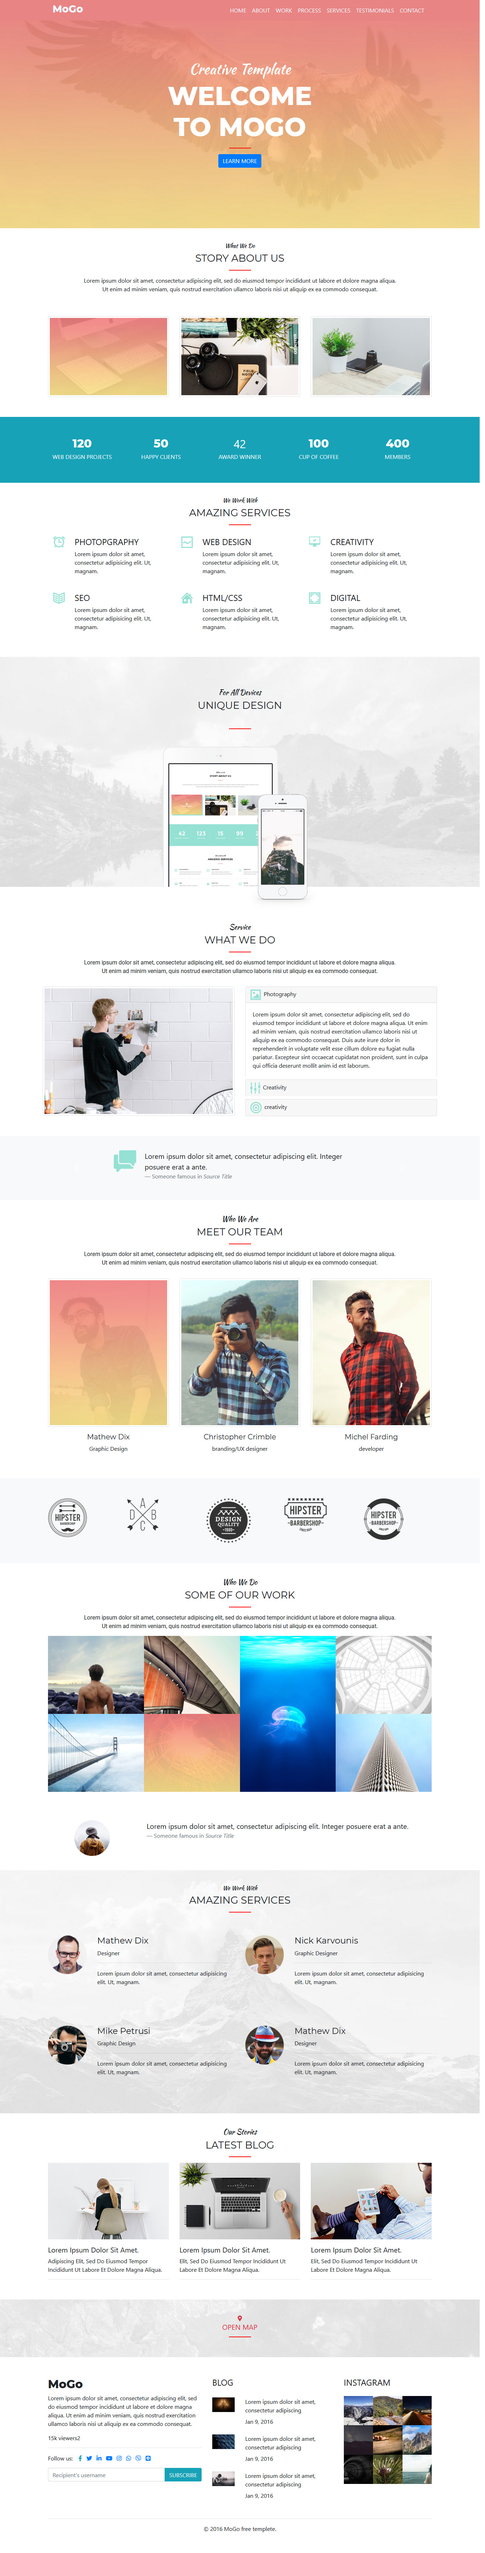
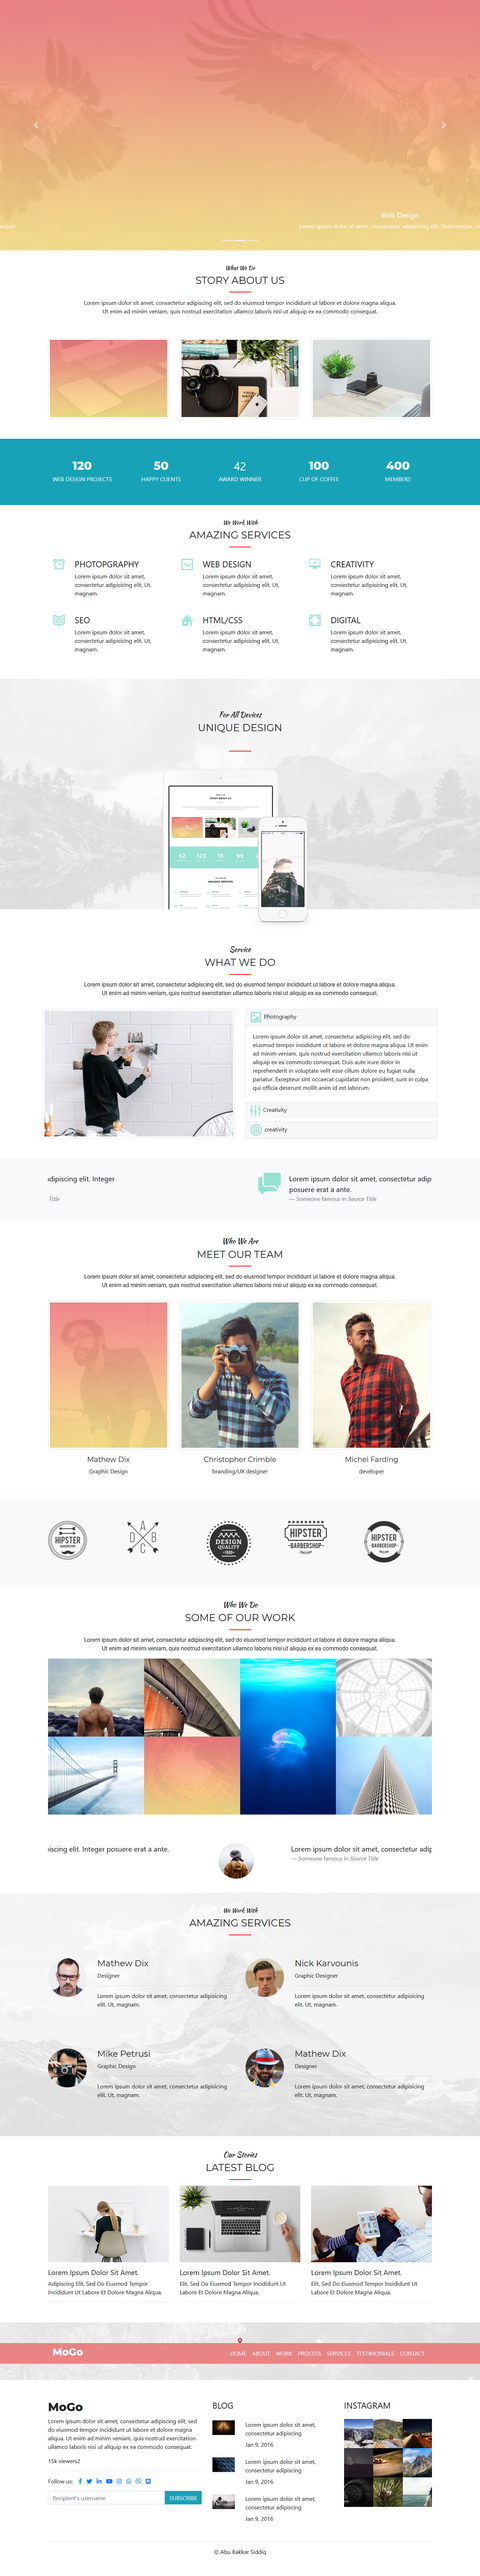
updated

diff --git a/index.html b/index.html
@@ -140,7 +140,7 @@ animate__delay-1s">embeded system</h2>
                                 <h2 class="text-uppercase display-4 font-weight-bold animate__animated animate__fadeInLeft
 animate__delay-1s">digital marketing</h2>
                                 <p class="animate__animated animate__fadeInRight animate__delay-2s">Need to promote you page or business? We have perfect solution for you.</p>
-                               <button class="btn slider-btn-color btn-lg animate__animated animate__fadeInUp animate__delay-3s" data-toggle="modal" data-target="#sliderModal">contact us</button>
+                                <button class="btn slider-btn-color btn-lg animate__animated animate__fadeInUp animate__delay-3s" data-toggle="modal" data-target="#sliderModal">contact us</button>
                             </div>
                         </div>
                     </div>
@@ -236,36 +236,6 @@ animate__delay-1s">digital marketing</h2>
                                         </div>
                                     </div>
                                     <div class="modal-body">
-                                        <!--
-                                        <div class="row text-capitalize text-primary mb-4">
-                                            <div class="col-5">
-                                                <img src="assets/images/team/team-2.jpg" alt="" class="img-fluid img-thumbnail rounded-circle">
-                                            </div>
-                                            <div class="col-7 text-left">
-                                                <p class="my-0">Nur A Alam Munna</p>
-                                                <p class="my-0">project manager</p>
-                                                <p class="my-0">algorithm unlock</p>
-                                            </div>
-                                        </div>
--->
-
-                                        <!--
-                                        <form>
-                                            <div class="form-group">
-                                                <input type="text" class="form-control" placeholder="Your Name">
-                                            </div>
-                                            <div class="form-group">
-                                                <input type="text" class="form-control" placeholder="Mobile Number">
-                                            </div>
-                                            <div class="form-group">
-                                                <input type="text" class="form-control" placeholder="Email Address">
-                                            </div>
-                                            <div class="form-group">
-                                                <textarea class="form-control" rows="4" placeholder="Your Message"></textarea>
-                                            </div>
-
-                                        </form>
--->
                                         <form class="needs-validation" novalidate>
 
                                             <div class="form-group mb-3">
@@ -560,7 +530,12 @@ animate__delay-1s">digital marketing</h2>
 
                                 <div id="leftOne" class="collapse show" aria-labelledby="leftheadingOne" data-parent="#accordionExampleleft">
                                     <div class="card-body ">
-                                        Lorem ipsum dolor sit amet, consectetur adipiscing elit, sed do eiusmod tempor incididunt ut labore et dolore magna aliqua. Ut enim ad minim veniam, quis nostrud exercitation ullamco laboris nisi ut aliquip ex ea commodo consequat. Duis aute irure dolor in reprehenderit in voluptate velit esse cillum dolore eu fugiat nulla pariatur. Excepteur sint occaecat cupidatat non proident, sunt in culpa qui officia deserunt mollit anim id est laborum.
+                                        <ul class="">
+                                            <li class=""><a href="" class="">Portfolio Site</a></li>
+                                            <li class=""><a href="" class="">E-commerce Site</a></li>
+                                            <li class=""><a href="" class="">dsf</a></li>
+                                            <li class=""><a href="" class="">fasd</a></li>
+                                        </ul>
                                     </div>
                                 </div>
                             </div>
@@ -742,18 +717,10 @@ animate__delay-1s">digital marketing</h2>
     <!-- SECTION START-->
     <div class="sponsor bg-light m-auto text-center">
         <div class="container px-2">
-            <div class="row autoplay ">
-                <div class="col my-3 "><img src="assets/images/s1.png" class="img-fluid m-auto" alt=""></div>
-                <div class="col my-3 "><img src="assets/images/s2.png" class="img-fluid m-auto" alt=""></div>
-                <div class="col my-3 "><img src="assets/images/s3.png" class="img-fluid m-auto" alt=""></div>
-                <div class="col my-3 "><img src="assets/images/s4.png" class="img-fluid m-auto" alt=""></div>
-                <div class="col my-3 "><img src="assets/images/s5.png" class="img-fluid m-auto" alt=""></div>
-                <div class="col my-3 "><img src="assets/images/s5.png" class="img-fluid m-auto" alt=""></div>
-                <div class="col my-3 "><img src="assets/images/s5.png" class="img-fluid m-auto" alt=""></div>
-                <div class="col my-3 "><img src="assets/images/s5.png" class="img-fluid m-auto" alt=""></div>
-                <div class="col my-3 "><img src="assets/images/s5.png" class="img-fluid m-auto" alt=""></div>
-                <div class="col my-3 "><img src="assets/images/s5.png" class="img-fluid m-auto" alt=""></div>
-                <div class="col my-3 "><img src="assets/images/s5.png" class="img-fluid m-auto" alt=""></div>
+            <div class="row autoplay">
+                <div class="col my-3 "><img src="assets/images/sponsor/s1.png" class="img-fluid m-auto" alt=""></div>
+                <div class="col my-3 "><img src="assets/images/sponsor/s2.png" class="img-fluid m-auto" alt=""></div>
+
             </div>
 
         </div>
@@ -777,33 +744,44 @@ animate__delay-1s">digital marketing</h2>
             <div class="row portfolio-item">
                 <div class="col-lg-3 col-md-4 col-sm-6 design graphic mb-4">
                     <div class="single-portfolio">
-                        <img src="assets/images/portfolio/p1.png" class="img-fluid" alt="">
+                        <img src="assets/images/portfolio/mogo.png" class="img-fluid" alt="">
 
                         <div class="portfolio-overlay">
+<!--
                             <h4>project title</h4>
-                            <p>project short description </p>
-                            <a href="assets/images/portfolio/p1.png" class="img-fluid" data-fancybox data-caption="Caption for single image">
-                                <!--                            <img src="" class="img-fluid" alt="" />-->
-                                <a class="btn btn-link mx-0">view more</a>
+                            <p class="mb-1">project short description </p>
+-->
+                            <a href="assets/images/portfolio/mogo-site.jpg" class="alert-link text-uppercase h5" data-fancybox data-caption="Caption for single image">
+                                view full design
                             </a>
                         </div>
                     </div>
                 </div>
                 <div class="col-lg-3 col-md-4 col-sm-6 design graphic mb-4">
                     <div class="single-portfolio">
-                        <img src="assets/images/portfolio/p2.png" class="img-fluid" alt="">
+                        <img src="assets/images/portfolio/ledp-new.png" class="img-fluid" alt="">
                         <div class="portfolio-overlay">
+<!--
                             <h4>project title</h4>
                             <p>project short description</p>
+-->
+                            <a href="assets/images/portfolio/ledp.jpg" class="alert-link text-uppercase h5" data-fancybox data-caption="Caption for single image">
+                                view full design
+                            </a>
                         </div>
                     </div>
                 </div>
                 <div class="col-lg-3 col-md-4 col-sm-6 dev app mb-4">
                     <div class="single-portfolio">
-                        <img src="assets/images/portfolio/p3.png" class="img-fluid" alt="">
+                        <img src="assets/images/portfolio/dhaka-university.png" class="img-fluid" alt="">
                         <div class="portfolio-overlay">
+<!--
                             <h4>project title</h4>
                             <p>project short description</p>
+-->
+                       <a href="assets/images/portfolio/dhaka-university.jpg" class="alert-link text-uppercase h5" data-fancybox data-caption="Caption for single image">
+                                view full design
+                            </a>
                         </div>
                     </div>
                 </div>
@@ -811,8 +789,13 @@ animate__delay-1s">digital marketing</h2>
                     <div class="single-portfolio">
                         <img src="assets/images/portfolio/p4.png" class="img-fluid" alt="">
                         <div class="portfolio-overlay">
+<!--
                             <h4>project title</h4>
                             <p>project short description</p>
+-->
+                       <a href="assets/images/portfolio/mogo-site.jpg" class="alert-link text-uppercase h5" data-fancybox data-caption="Caption for single image">
+                                view full design
+                            </a>
                         </div>
                     </div>
                 </div>
@@ -820,8 +803,13 @@ animate__delay-1s">digital marketing</h2>
                     <div class="single-portfolio">
                         <img src="assets/images/portfolio/p5.png" class="img-fluid" alt="">
                         <div class="portfolio-overlay">
+<!--
                             <h4>project title</h4>
                             <p>project short description</p>
+-->
+                       <a href="assets/images/portfolio/mogo-site.jpg" class="alert-link text-uppercase h5" data-fancybox data-caption="Caption for single image">
+                                view full design
+                            </a>
                         </div>
                     </div>
                 </div>
@@ -829,8 +817,13 @@ animate__delay-1s">digital marketing</h2>
                     <div class="single-portfolio">
                         <img src="assets/images/portfolio/p6.png" class="img-fluid" alt="">
                         <div class="portfolio-overlay">
+<!--
                             <h4>project title</h4>
                             <p>project short description</p>
+-->
+                       <a href="assets/images/portfolio/mogo-site.jpg" class="alert-link text-uppercase h5" data-fancybox data-caption="Caption for single image">
+                                view full design
+                            </a>
                         </div>
                     </div>
                 </div>
@@ -838,8 +831,13 @@ animate__delay-1s">digital marketing</h2>
                     <div class="single-portfolio">
                         <img src="assets/images/portfolio/p7.png" class="img-fluid" alt="">
                         <div class="portfolio-overlay">
+<!--
                             <h4>project title</h4>
                             <p>project short description</p>
+-->
+                       <a href="assets/images/portfolio/mogo-site.jpg" class="alert-link text-uppercase h5" data-fancybox data-caption="Caption for single image">
+                                view full design
+                            </a>
                         </div>
                     </div>
                 </div>
@@ -847,8 +845,13 @@ animate__delay-1s">digital marketing</h2>
                     <div class="single-portfolio">
                         <img src="assets/images/portfolio/p8.png" class="img-fluid" alt="">
                         <div class="portfolio-overlay">
+<!--
                             <h4>project title</h4>
                             <p>project short description</p>
+-->
+                       <a href="assets/images/portfolio/mogo-site.jpg" class="alert-link text-uppercase h5" data-fancybox data-caption="Caption for single image">
+                                view full design
+                            </a>
                         </div>
                     </div>
                 </div>
@@ -856,8 +859,13 @@ animate__delay-1s">digital marketing</h2>
                     <div class="single-portfolio">
                         <img src="assets/images/portfolio/p9.png" class="img-fluid" alt="">
                         <div class="portfolio-overlay">
+<!--
                             <h4>project title</h4>
                             <p>project short description</p>
+-->
+                       <a href="assets/images/portfolio/mogo-site.jpg" class="alert-link text-uppercase h5" data-fancybox data-caption="Caption for single image">
+                                view full design
+                            </a>
                         </div>
                     </div>
                 </div>
@@ -865,8 +873,13 @@ animate__delay-1s">digital marketing</h2>
                     <div class="single-portfolio">
                         <img src="assets/images/portfolio/p10.png" class="img-fluid" alt="">
                         <div class="portfolio-overlay">
+<!--
                             <h4>project title</h4>
                             <p>project short description</p>
+-->
+                       <a href="assets/images/portfolio/mogo-site.jpg" class="alert-link text-uppercase h5" data-fancybox data-caption="Caption for single image">
+                                view full design
+                            </a>
                         </div>
                     </div>
                 </div>
@@ -874,8 +887,13 @@ animate__delay-1s">digital marketing</h2>
                     <div class="single-portfolio">
                         <img src="assets/images/portfolio/p11.png" class="img-fluid" alt="">
                         <div class="portfolio-overlay">
+<!--
                             <h4>project title</h4>
                             <p>project short description</p>
+-->
+                       <a href="assets/images/portfolio/mogo-site.jpg" class="alert-link text-uppercase h5" data-fancybox data-caption="Caption for single image">
+                                view full design
+                            </a>
                         </div>
                     </div>
                 </div>
@@ -883,8 +901,13 @@ animate__delay-1s">digital marketing</h2>
                     <div class="single-portfolio">
                         <img src="assets/images/portfolio/p12.png" class="img-fluid" alt="">
                         <div class="portfolio-overlay">
+<!--
                             <h4>project title</h4>
                             <p>project short description</p>
+-->
+                       <a href="assets/images/portfolio/mogo-site.jpg" class="alert-link text-uppercase h5" data-fancybox data-caption="Caption for single image">
+                                view full design
+                            </a>
                         </div>
                     </div>
                 </div>
@@ -909,10 +932,10 @@ animate__delay-1s">digital marketing</h2>
                 <div class="row">
                     <div class="col-lg-6 col-md-6 col-sm-12">
                         <div class="row py-5 text-left">
-                            <div class="col-3 text-center"><img src="assets/images/p1.png" class="img-fluid" alt=""></div>
+                            <div class="col-3 text-center"><img src="assets/images/engineer/m2.png" class="img-fluid rounded-circle" alt=""></div>
                             <div class="col-9 text-left">
-                                <h4 class="text-capitalize text-montserrat">mathew dix</h4>
-                                <p class="text-capitalize">designer</p>
+                                <h4 class="text-capitalize text-montserrat">Md. Aminul Islam Imrul</h4>
+                                <p class="text-capitalize">Laravel Developer</p>
                                 <hr>
                                 <p>Lorem ipsum dolor sit amet, consectetur adipisicing elit. Ut, magnam.</p>
                             </div>
@@ -920,9 +943,9 @@ animate__delay-1s">digital marketing</h2>
                     </div>
                     <div class="col-lg-6 col-md-6 col-sm-12">
                         <div class="row py-5">
-                            <div class="col-3 text-center"><img src="assets/images/p2.png" class="img-fluid" alt=""></div>
+                            <div class="col-3 text-center"><img src="assets/images/engineer/m3.png" class="img-fluid rounded-circle" alt=""></div>
                             <div class="col-9 text-left">
-                                <h4 class="text-capitalize text-montserrat">nick karvounis</h4>
+                                <h4 class="text-capitalize text-montserrat">S.K. Shahriar Sojib</h4>
                                 <p class="text-capitalize">graphic designer</p>
                                 <hr>
                                 <p>Lorem ipsum dolor sit amet, consectetur adipisicing elit. Ut, magnam.</p>

diff --git a/style.css b/style.css
@@ -56,7 +56,8 @@ h3, h5{color: #682F92;}
      text-align: center;width: 100px; height: 100px; border-radius: 50%; padding: 25px 0 0 0;background-color: #07657B; color: #fff; 
 }
 .working-process-bg{background-color: #F5F5F5; min-height: 350px}
-
+/*sponsor*/
+.sponsor img{min-height: 40px}
 /*Portfolio*/
 
 .portfolio-menu li{border: 1px solid #07657B;padding: 5px 15px; color: #07657B; cursor: pointer;}
@@ -99,6 +100,8 @@ h3, h5{color: #682F92;}
     text-transform: capitalize;
     font-size: 25px;
   }
+.portfolio-overlay a{color: #fff}
+.portfolio-overlay a:hover{color: #07657B; border: 2px solid #07657B; padding: 2px 5px; text-decoration: none}
   .single-portfolio:hover .portfolio-overlay {
     top: 0;
     visibility: visible;
@@ -135,3 +138,4 @@ h3, h5{color: #682F92;}
 .modal-content{background-color: #1D1F21;}
 .close{color: #5F2D84}*/
 /*.header-slider #exampleModal{z-index: 999 !important}*/
+.portfolio-section img{min-height: 150px;}
